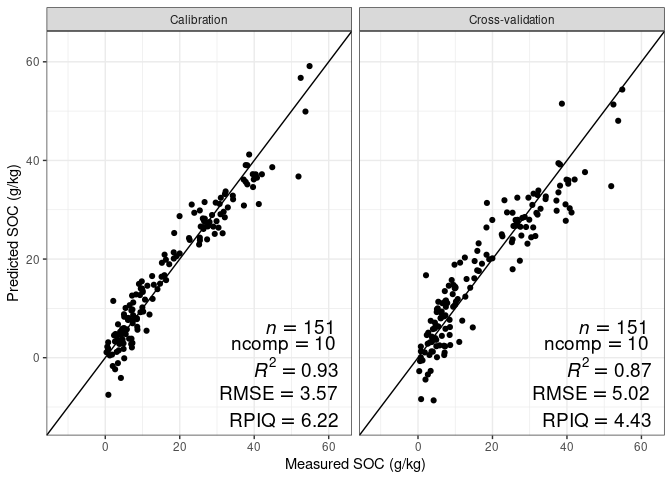
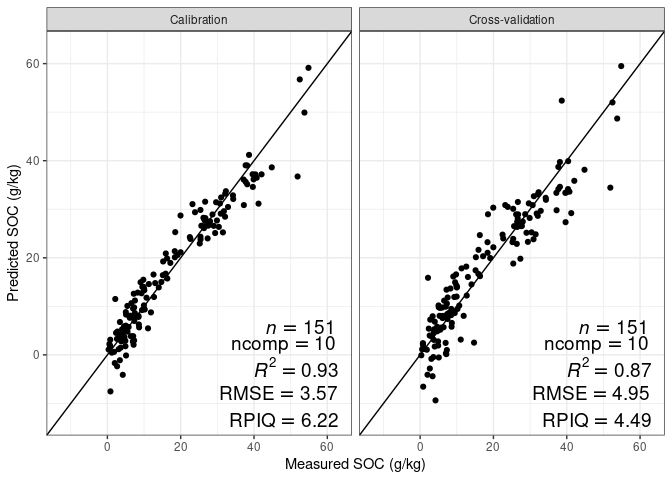
correct readme

diff --git a/README.md b/README.md
@@ -4,7 +4,8 @@ TROPIRES Summer School Uganda August 19–23 2024
 - [Calibration data](#calibration-data)
   - [TropSOC data from Uganda (cropland and
     forest)](#tropsoc-data-from-uganda-cropland-and-forest)
-  - [Samples from PhD project Laura](#samples-from-phd-project-laura)
+  - [Uganda samples from PhD project
+    Laura](#uganda-samples-from-phd-project-laura)
   - [Calibration modeling
     (cross-validation)](#calibration-modeling-cross-validation)
     - [Pre-process / smoothen spectra](#pre-process--smoothen-spectra)
@@ -56,7 +57,7 @@ range(as.numeric(colnames(tropsoc_data$abs)))
 
     ## [1] 3920 7408
 
-## Samples from PhD project Laura
+## Uganda samples from PhD project Laura
 
 cropland samples only from:
 
@@ -192,20 +193,20 @@ pls_model
     ## 
     ## Pre-processing: centered (1727), scaled (1727) 
     ## Resampling: Cross-Validated (10 fold, repeated 1 times) 
-    ## Summary of sample sizes: 135, 135, 138, 137, 137, 135, ... 
+    ## Summary of sample sizes: 136, 136, 136, 137, 137, 135, ... 
     ## Resampling results across tuning parameters:
     ## 
-    ##   ncomp  RMSE       Rsquared   MAE      
-    ##    1     12.238933  0.2491528  10.054748
-    ##    2     11.257560  0.3711529   9.009294
-    ##    3     10.356019  0.4772331   8.464809
-    ##    4      9.766097  0.5368541   7.743555
-    ##    5      8.638522  0.6394758   7.164671
-    ##    6      8.305312  0.6791765   7.029504
-    ##    7      6.844789  0.7765025   5.388401
-    ##    8      5.715564  0.8346323   4.445922
-    ##    9      5.443237  0.8517842   4.210469
-    ##   10      4.909349  0.8775332   3.869282
+    ##   ncomp  RMSE       Rsquared   MAE     
+    ##    1     12.233022  0.2514243  9.990460
+    ##    2     11.322565  0.3608598  9.001767
+    ##    3     10.376480  0.4666358  8.457358
+    ##    4      9.704510  0.5268055  7.739310
+    ##    5      8.564870  0.6403707  7.152650
+    ##    6      8.257484  0.6657864  7.003488
+    ##    7      6.673455  0.7813635  5.260524
+    ##    8      5.719879  0.8371301  4.517615
+    ##    9      5.430172  0.8548849  4.320771
+    ##   10      4.827731  0.8882699  3.732396
     ## 
     ## RMSE was used to select the optimal model using  the one SE rule.
     ## The final value used for the model was ncomp = 10.
@@ -257,20 +258,20 @@ pls_model_iv
     ## 
     ## Pre-processing: centered (1727), scaled (1727) 
     ## Resampling: Cross-Validated (10 fold, repeated 1 times) 
-    ## Summary of sample sizes: 90, 93, 92, 91, 91, 90, ... 
+    ## Summary of sample sizes: 90, 90, 92, 92, 91, 89, ... 
     ## Resampling results across tuning parameters:
     ## 
     ##   ncomp  RMSE       Rsquared   MAE     
-    ##    1     12.041767  0.2745027  9.997320
-    ##    2     11.244537  0.3833168  9.262453
-    ##    3     10.800388  0.4291245  8.879407
-    ##    4     10.086885  0.5124458  8.126361
-    ##    5      9.155540  0.6372608  7.580643
-    ##    6      8.178088  0.7106456  6.849990
-    ##    7      7.626245  0.7818996  6.120622
-    ##    8      6.975834  0.8128793  5.432013
-    ##    9      6.179062  0.8475838  4.796784
-    ##   10      5.829515  0.8501411  4.641577
+    ##    1     11.976302  0.2827532  9.870819
+    ##    2     11.031333  0.3770476  9.008671
+    ##    3     10.445789  0.4706180  8.640808
+    ##    4      9.817329  0.5359411  7.978393
+    ##    5      8.595038  0.6550130  7.254332
+    ##    6      8.406437  0.6692635  7.059173
+    ##    7      7.189064  0.7499136  5.911572
+    ##    8      6.157320  0.8130983  4.827566
+    ##    9      5.735034  0.8299074  4.584180
+    ##   10      5.334044  0.8632148  4.229777
     ## 
     ## RMSE was used to select the optimal model using  the one SE rule.
     ## The final value used for the model was ncomp = 9.
